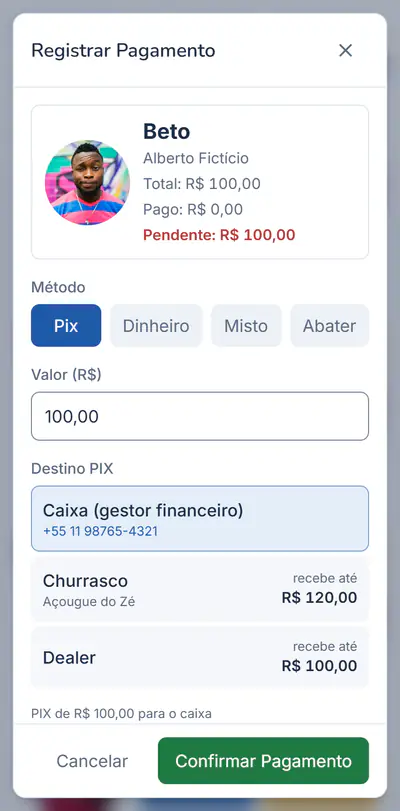
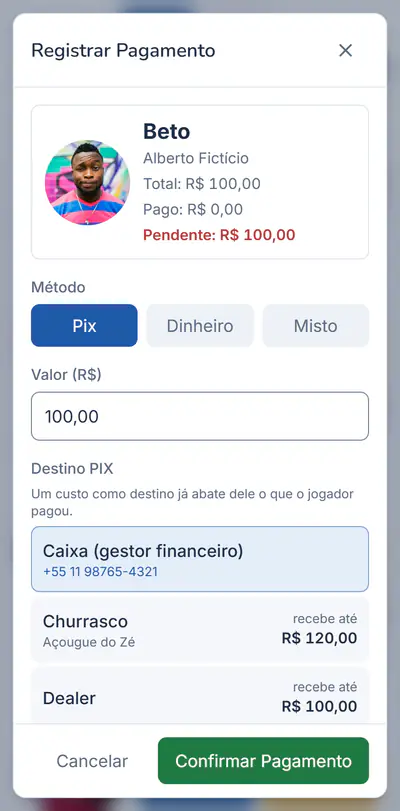
Manual: iniciar pelo terminal, editar torneio em andamento e pagamento sem Abater
- Passo novo "Inicie o torneio" no terminal (print terminal-iniciar).
- Passo novo "Edite o torneio, mesmo em andamento" no painel (print torneio-editar-andamento)
  e Desfazer confirmação na Premiação.
- "Receba o pagamento" sem Abater: o custo como destino já abate; o favorecido vira abatimento
  (print terminal-pagar refeito).

diff --git a/src/pages/manual/manual.content.ts b/src/pages/manual/manual.content.ts
@@ -429,6 +429,15 @@ export const MANUAL_MODULES = [
             imageAlt: 'Terminal do dealer no celular: Terminal e Telão no topo, relógio, controles do nível e os cards dos jogadores da Mesa 1',
           },
           {
+            title: 'Inicie o torneio',
+            text: [
+              'Enquanto o torneio é rascunho, o botão do meio, no topo, é Iniciar torneio. Tocar liga o relógio e o torneio passa para Em andamento: é o mesmo Iniciar Torneio do painel.',
+              'Depois disso, o botão vira Pausar e Retomar. Ligar o relógio de um rascunho pela aba Blinds do painel também começa o torneio.',
+            ],
+            image: 'terminal-iniciar',
+            imageAlt: 'Terminal do dealer de um torneio em rascunho, com o botão verde Iniciar torneio entre Anterior e Próximo',
+          },
+          {
             title: 'Telão no celular',
             text: [
               'Sem TV na sala? Toque em Telão, no topo do terminal: o celular vira um telão pequeno, com o nível, o relógio, os blinds e o ante, o próximo nível, o próximo intervalo, quantos estão jogando, as fichas em jogo, a média e a premiação.',
@@ -469,12 +478,13 @@ export const MANUAL_MODULES = [
           {
             title: 'Receba o pagamento',
             text: [
-              'Toque em Pagar. Escolha o método (Pix, Dinheiro, Misto ou Abater) e o valor.',
-              'No PIX, escolha para onde vai: o caixa do dia ou um custo (churrasco, dealer…), cada um até o que ainda falta receber.',
+              'Toque em Pagar. Escolha o método (Pix, Dinheiro ou Misto) e o valor.',
+              'No PIX, escolha para onde vai: o caixa do dia ou um custo (churrasco, dealer…), cada um até o que ainda falta receber. Escolher um custo já abate dele o que o jogador pagou.',
             ],
+            tip: 'Quem paga é o favorecido do custo (o nome em Para quem, na aba Custos, é o dele)? O destino aparece com "É dele: vira abatimento": a dívida dele é quitada contra o que ele tem a receber, sem dinheiro trocar de mãos.',
             feature: 'Payments',
             image: 'terminal-pagar',
-            imageAlt: 'Janela Registrar Pagamento com o jogador, o método Pix, o valor e os destinos do PIX',
+            imageAlt: 'Janela Registrar Pagamento com o jogador, os métodos Pix, Dinheiro e Misto, o valor e os destinos do PIX, o caixa primeiro',
           },
           {
             title: 'QR do PIX com o valor',
@@ -631,7 +641,7 @@ export const MANUAL_MODULES = [
           {
             title: 'Visão geral',
             text: [
-              'No topo: status, relógio, jogadores, rebuys, add-ons, premiação e total. Os botões mudam conforme o torneio anda: Iniciar Torneio, Pausar, Encerrar Rebuys e Finalizar (para encerrar antes da hora; quando sobra o campeão, ele se finaliza sozinho).',
+              'No topo: status, relógio, jogadores, rebuys, add-ons, premiação e total. Os botões mudam conforme o torneio anda: Editar, Iniciar Torneio, Pausar, Encerrar Rebuys e Finalizar (para encerrar antes da hora; quando sobra o campeão, ele se finaliza sozinho).',
               'Ao lado ficam Telão (o relógio e os blinds no celular ou numa tela ao lado) e Dealer (o QR do terminal do dealer). Abaixo, as abas do torneio; no celular, elas ficam na barra de baixo, que rola de lado.',
             ],
             image: 'pc-painel-torneio',
@@ -646,6 +656,16 @@ export const MANUAL_MODULES = [
             tip: 'Sem ninguém marcado, Cadastrar e adicionar cadastra o jogador novo e já põe no torneio. Com alguém marcado, Cadastrar e selecionar junta o novo aos marcados.',
             image: 'painel-adicionar',
             imageAlt: 'Janela Adicionar jogadores do painel com um jogador marcado',
+          },
+          {
+            title: 'Edite o torneio, mesmo em andamento',
+            text: [
+              'Toque em Editar, no topo do painel, até o intervalo de acerto (finalizado e cancelado não se editam). Mudar buy-in, rebuy, add-on, staff, contribuição ao ranking ou bounty recalcula o que cada jogador deve e os totais do torneio: premiação, custos e líquido. O que já foi pago fica como está, e o Histórico registra a mudança.',
+              'Depois que o torneio começa, a estrutura de blinds (os níveis se editam na aba Blinds) e o formato (Normal, Knockout ou PKO) ficam travados. Fichas, limites, PIX, timebank, nome e data mudam sem mexer no dinheiro.',
+            ],
+            tip: 'Com a premiação confirmada, os valores ficam travados: na aba Premiação, toque em Desfazer confirmação, mude os valores e confirme a premiação de novo.',
+            image: 'torneio-editar-andamento',
+            imageAlt: 'Formulário Editar Torneio no celular de um torneio em andamento, com o aviso de que mudar valores recalcula o que cada jogador deve e de que a estrutura e o formato não mudam mais',
           },
           {
             title: 'Jogadores',
@@ -706,6 +726,7 @@ export const MANUAL_MODULES = [
             title: 'Premiação',
             text: [
               'Informe quantos jogadores são premiados e toque em Recalcular: o sistema sugere os valores e as porcentagens. Ajuste se quiser e toque em Confirmar Premiação.',
+              'Confirmada, dá para editar e salvar de novo. Para mudar os valores do torneio depois, toque em Desfazer confirmação (antes de pagar algum prêmio).',
               'A colocação de cada um sai das eliminações.',
             ],
             feature: 'Prizes',

diff --git a/src/pages/manual/manualImages.ts b/src/pages/manual/manualImages.ts
@@ -101,6 +101,8 @@ import imgTerminalEliminar400 from '../../assets/manual/terminal-eliminar-400.we
 import imgTerminalEliminar750 from '../../assets/manual/terminal-eliminar-750.webp'
 import imgTerminalHistorico400 from '../../assets/manual/terminal-historico-400.webp'
 import imgTerminalHistorico750 from '../../assets/manual/terminal-historico-750.webp'
+import imgTerminalIniciar400 from '../../assets/manual/terminal-iniciar-400.webp'
+import imgTerminalIniciar750 from '../../assets/manual/terminal-iniciar-750.webp'
 import imgTerminalMais400 from '../../assets/manual/terminal-mais-400.webp'
 import imgTerminalMais750 from '../../assets/manual/terminal-mais-750.webp'
 import imgTerminalMesa400 from '../../assets/manual/terminal-mesa-400.webp'
@@ -121,6 +123,8 @@ import imgTerminalTimebank400 from '../../assets/manual/terminal-timebank-400.we
 import imgTerminalTimebank750 from '../../assets/manual/terminal-timebank-750.webp'
 import imgTerminalTimebankContagem400 from '../../assets/manual/terminal-timebank-contagem-400.webp'
 import imgTerminalTimebankContagem750 from '../../assets/manual/terminal-timebank-contagem-750.webp'
+import imgTorneioEditarAndamento400 from '../../assets/manual/torneio-editar-andamento-400.webp'
+import imgTorneioEditarAndamento750 from '../../assets/manual/torneio-editar-andamento-750.webp'
 import imgTorneioNovo400 from '../../assets/manual/torneio-novo-400.webp'
 import imgTorneioNovo750 from '../../assets/manual/torneio-novo-750.webp'
 import imgTorneioNovoDealers400 from '../../assets/manual/torneio-novo-dealers-400.webp'
@@ -528,6 +532,14 @@ export const MANUAL_IMAGES = {
     height: 1520,
     kind: 'phone',
   },
+  'terminal-iniciar': {
+    src: imgTerminalIniciar400,
+    full: imgTerminalIniciar750,
+    srcSet: `${imgTerminalIniciar400} 400w, ${imgTerminalIniciar750} 750w`,
+    width: 750,
+    height: 1520,
+    kind: 'phone',
+  },
   'terminal-mais': {
     src: imgTerminalMais400,
     full: imgTerminalMais750,
@@ -604,6 +616,14 @@ export const MANUAL_IMAGES = {
     src: imgTerminalTimebankContagem400,
     full: imgTerminalTimebankContagem750,
     srcSet: `${imgTerminalTimebankContagem400} 400w, ${imgTerminalTimebankContagem750} 750w`,
+    width: 750,
+    height: 1520,
+    kind: 'phone',
+  },
+  'torneio-editar-andamento': {
+    src: imgTorneioEditarAndamento400,
+    full: imgTorneioEditarAndamento750,
+    srcSet: `${imgTorneioEditarAndamento400} 400w, ${imgTorneioEditarAndamento750} 750w`,
     width: 750,
     height: 1520,
     kind: 'phone',
